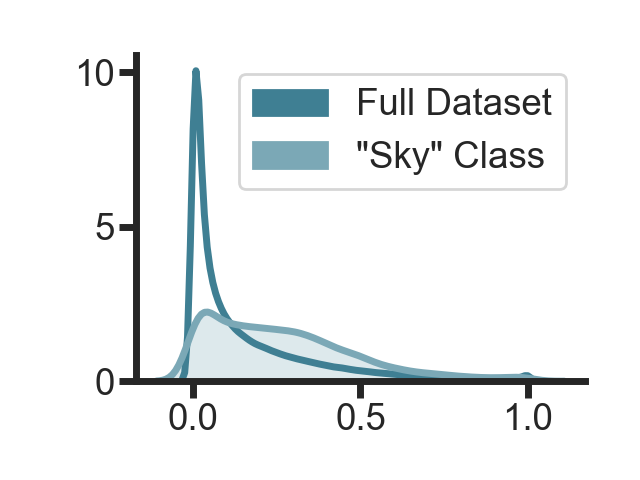
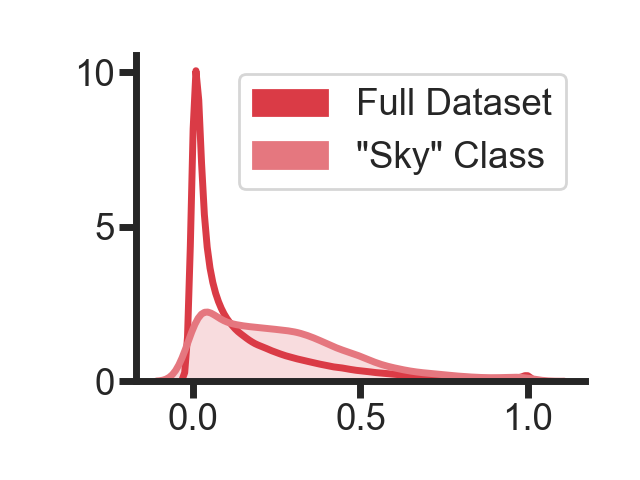
st

Changed region(s): [[0.25, 0.125, 0.8438, 0.8125], [0.375, 0.2812, 0.5312, 0.375], [0.375, 0.1875, 0.5312, 0.25]]

diff --git a/scripts/archive/pretty_coco_sky/plot.py b/scripts/archive/pretty_coco_sky/plot.py
@@ -2,7 +2,7 @@ import matplotlib.patches as mpatches
 import pickle
 import seaborn as sns
 
-PALETTE = sns.diverging_palette(220, 10, n=7)
+PALETTE = sns.diverging_palette(10, 220, n=7)
 FONT_SCALE = 1.2
 STYLE = "ticks"
 CONTEXT = "poster"
